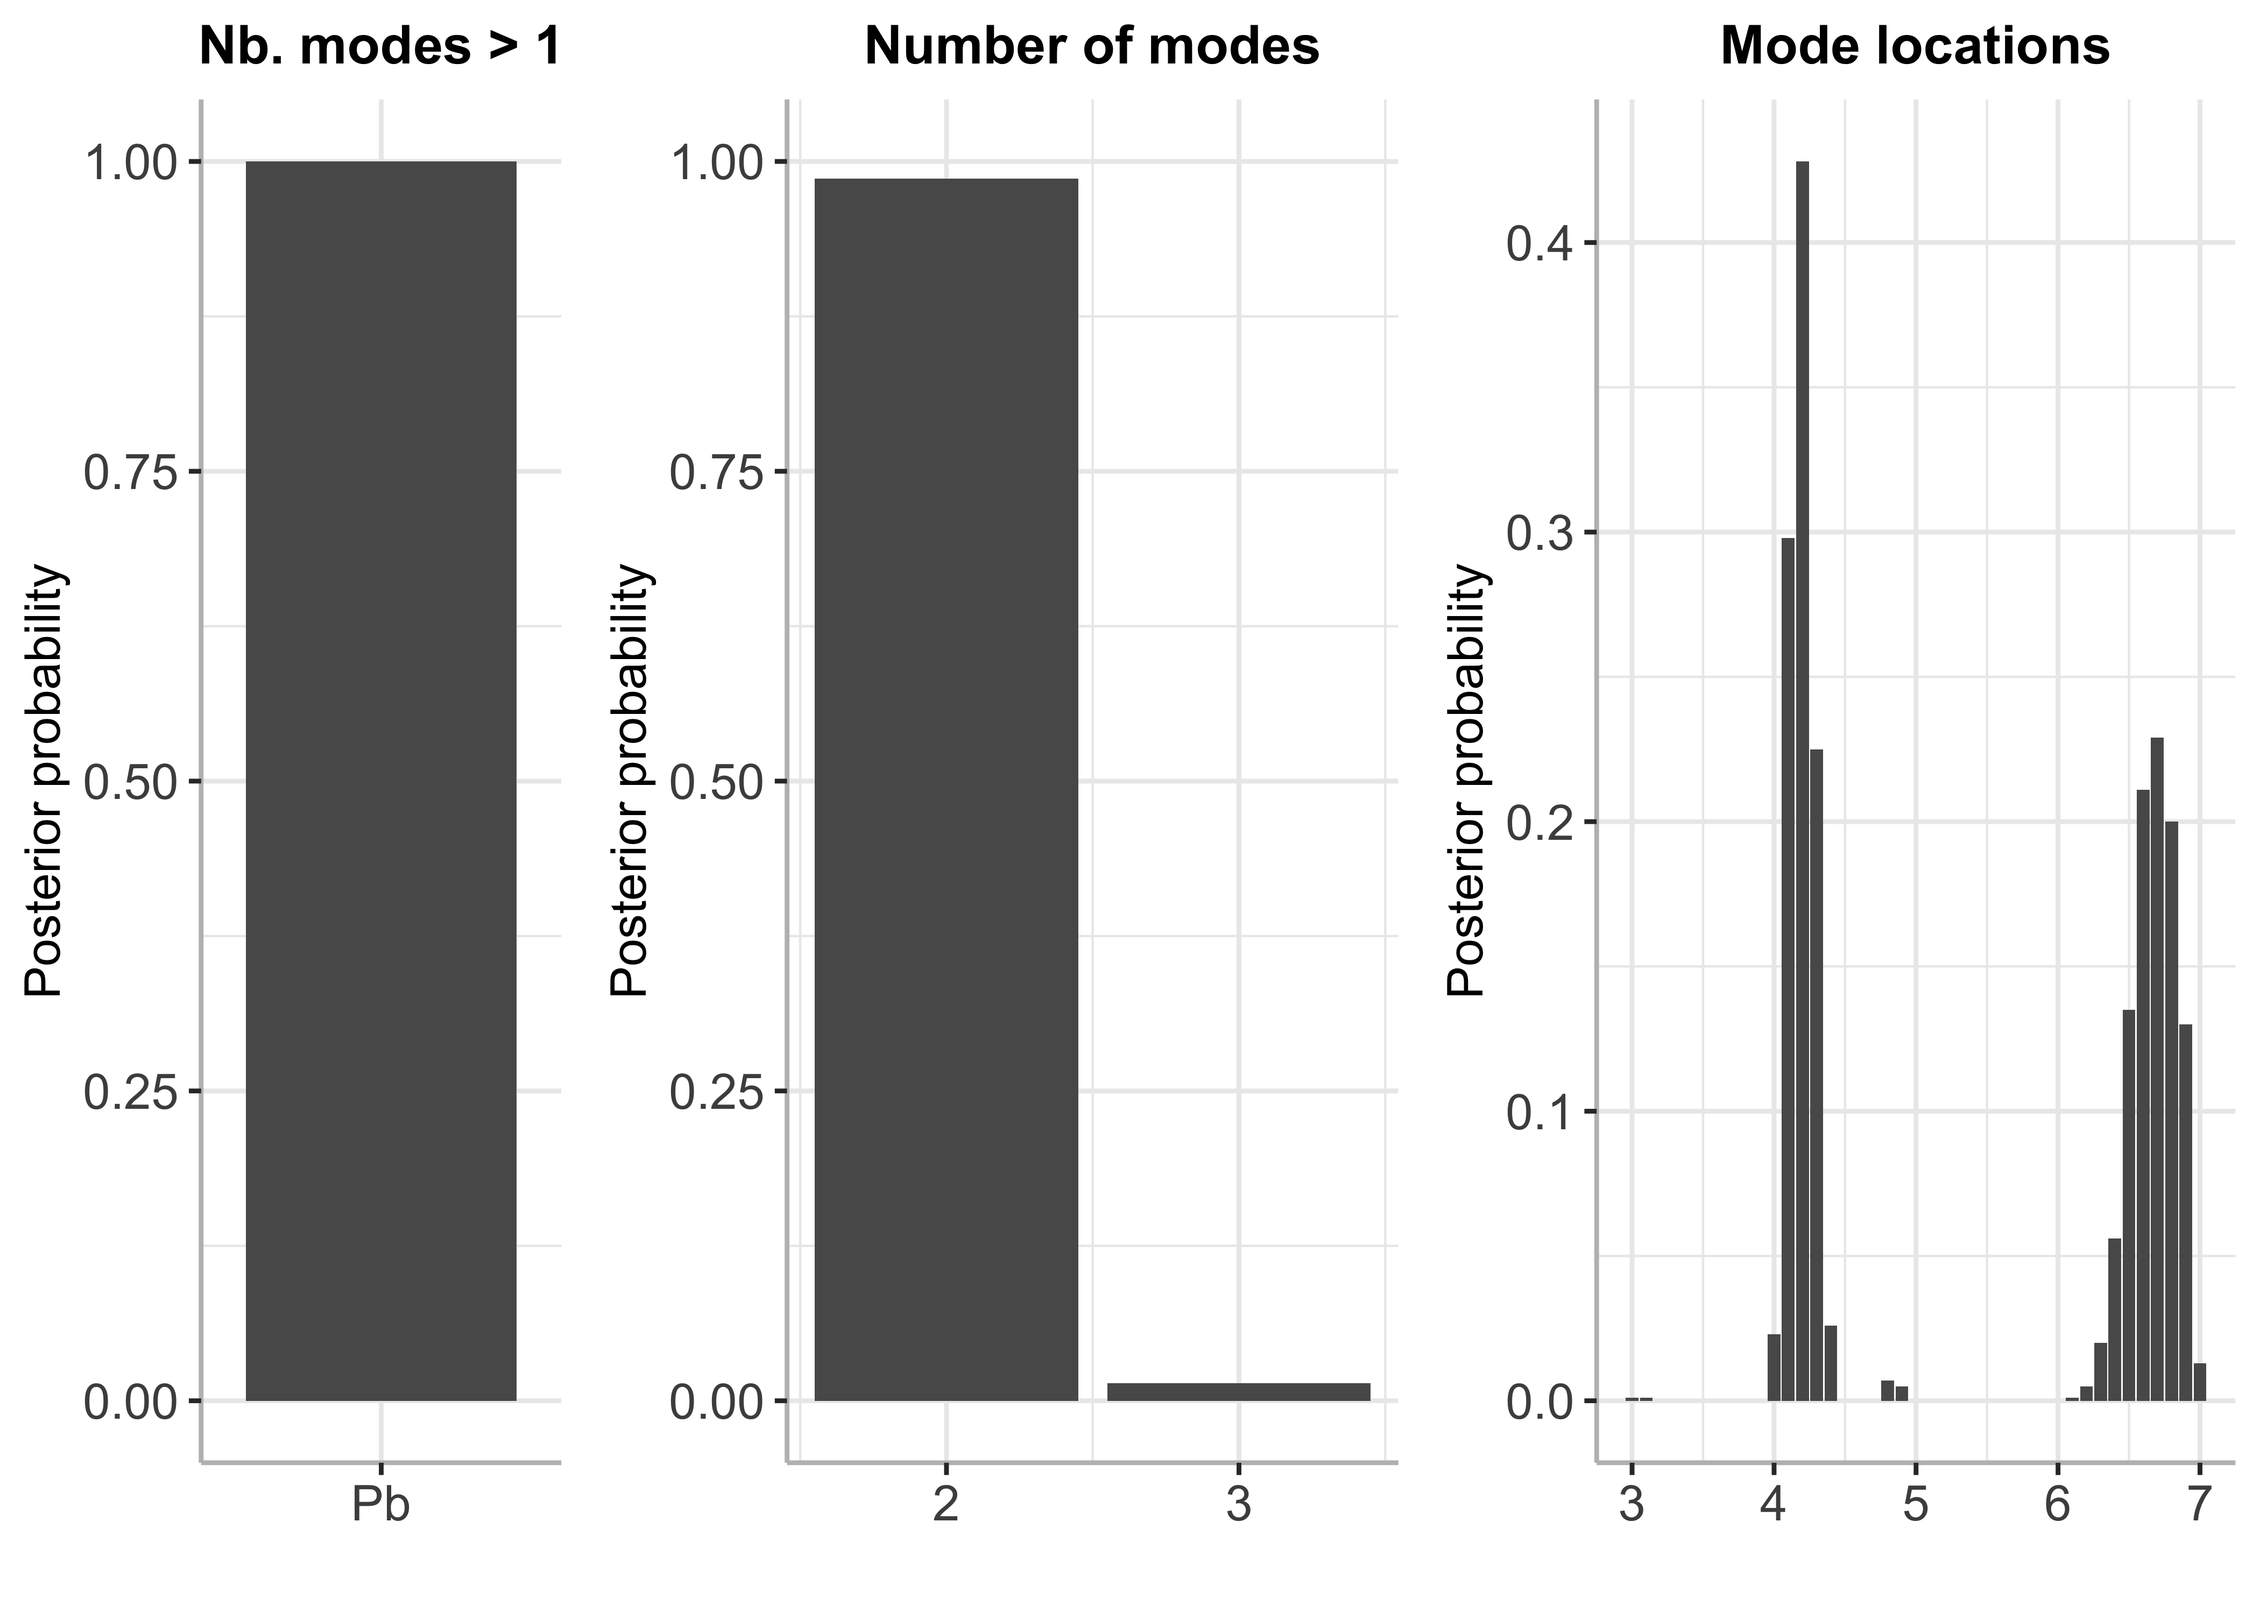
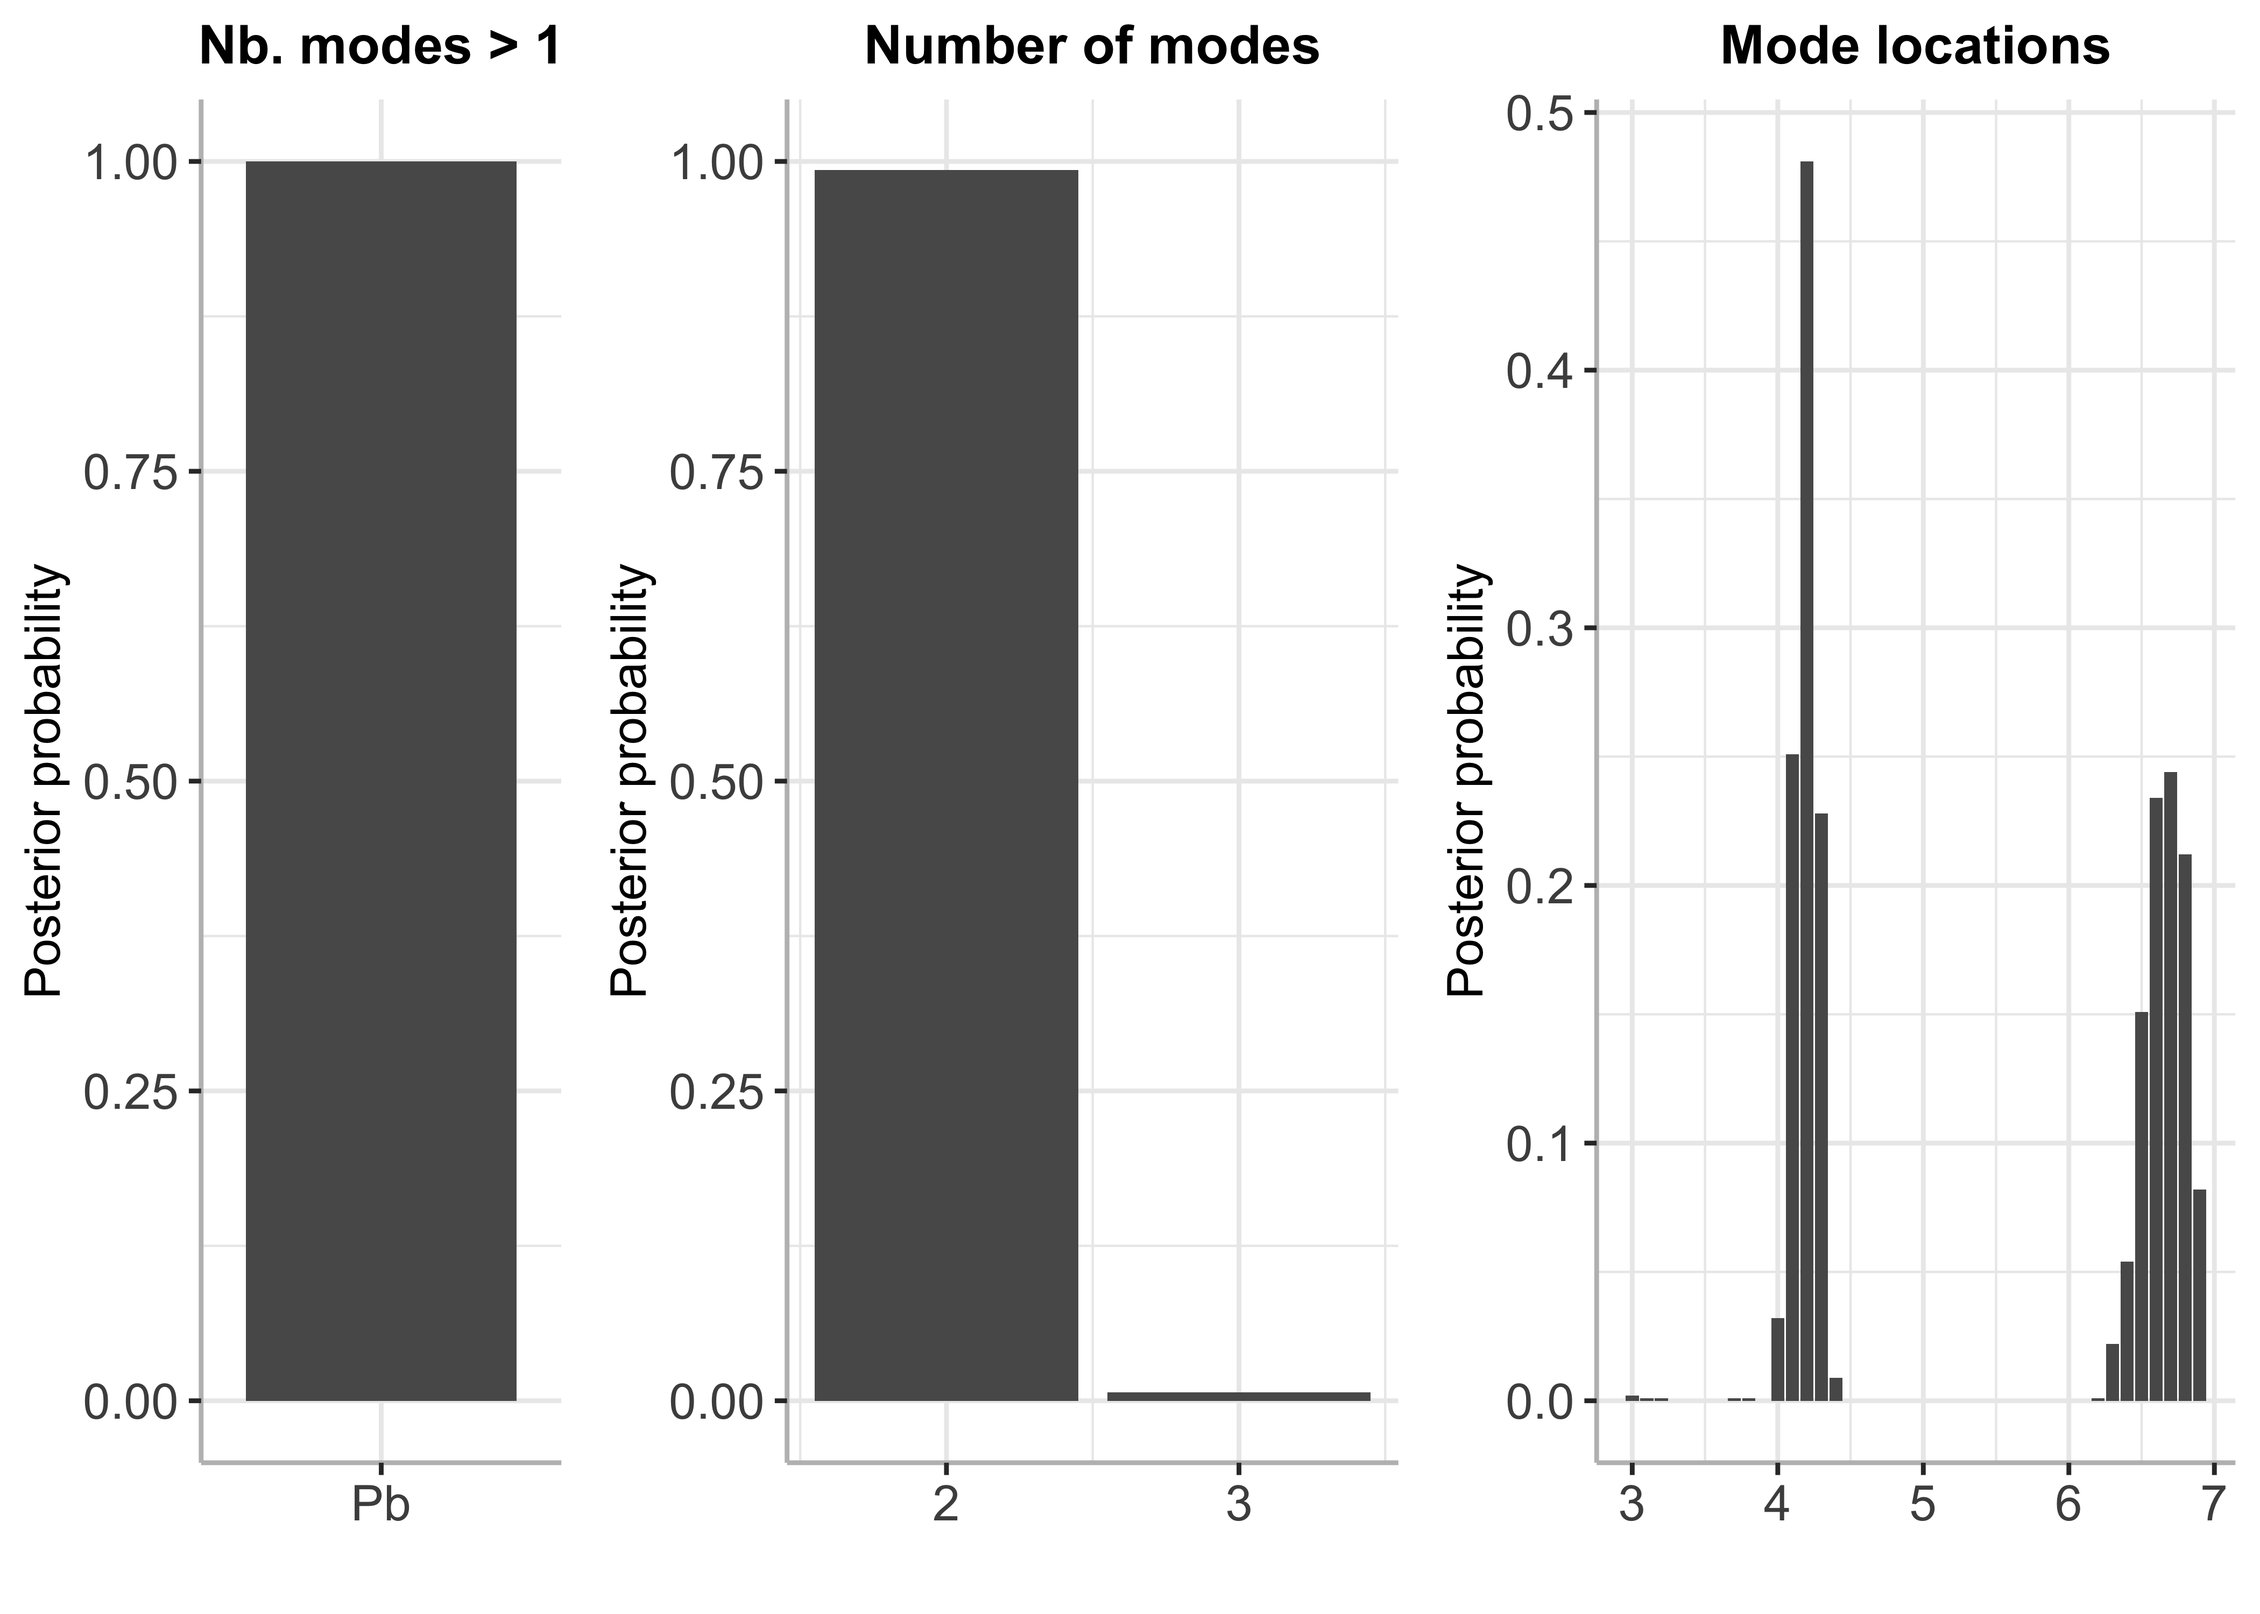
updated read-me

diff --git a/README.md b/README.md
@@ -96,8 +96,8 @@ summary(bayesmode)
     ## 
     ## The number of estimated modes and their posterior probabilities is:
     ##      Number of modes Posterior probabilty
-    ## [1,]               2                0.986
-    ## [2,]               3                0.014
+    ## [1,]               2                0.993
+    ## [2,]               3                0.007
 
 ### Using BayesMultiMode for mode inference with external MCMC output
 
@@ -118,18 +118,18 @@ PY_result = PYdensity(y,
                      output = list(out_param = TRUE))
 ```
 
-    ## Completed:   1000/10000 - in 0.109396 sec
-    ## Completed:   2000/10000 - in 0.224506 sec
-    ## Completed:   3000/10000 - in 0.330747 sec
-    ## Completed:   4000/10000 - in 0.441394 sec
-    ## Completed:   5000/10000 - in 0.552644 sec
-    ## Completed:   6000/10000 - in 0.67687 sec
-    ## Completed:   7000/10000 - in 0.790151 sec
-    ## Completed:   8000/10000 - in 0.904305 sec
-    ## Completed:   9000/10000 - in 1.01536 sec
-    ## Completed:   10000/10000 - in 1.12912 sec
+    ## Completed:   1000/10000 - in 0.107395 sec
+    ## Completed:   2000/10000 - in 0.217573 sec
+    ## Completed:   3000/10000 - in 0.336229 sec
+    ## Completed:   4000/10000 - in 0.439392 sec
+    ## Completed:   5000/10000 - in 0.557764 sec
+    ## Completed:   6000/10000 - in 0.670676 sec
+    ## Completed:   7000/10000 - in 0.787221 sec
+    ## Completed:   8000/10000 - in 0.90798 sec
+    ## Completed:   9000/10000 - in 1.02621 sec
+    ## Completed:   10000/10000 - in 1.13895 sec
     ## 
-    ## Estimation done in 1.12913 seconds
+    ## Estimation done in 1.13897 seconds
 
 ``` r
 plot(PY_result)
@@ -161,16 +161,15 @@ for (i in 1:length(PY_result$p)) {
 }
 
 mcmc_py = bind_rows(mcmc_py)
-
-##
-pars_names = c(theta = "theta",
-               mu = "mu",
-               sigma = "sigma")
 ```
 
 #### Creating an object of class `BayesMixture`
 
 ``` r
+pars_names = c(theta = "theta",
+               mu = "mu",
+               sigma = "sigma")
+
 py_BayesMix = new_BayesMixture(mcmc = mcmc_py,
                                data = y,
                                K = (ncol(mcmc_py)-1)/3,
@@ -201,11 +200,10 @@ summary(bayesmode)
     ## 
     ## The number of estimated modes and their posterior probabilities is:
     ##      Number of modes Posterior probabilty
-    ## [1,]               2               0.8104
-    ## [2,]               3               0.1608
-    ## [3,]               4               0.0264
-    ## [4,]               5               0.0022
-    ## [5,]               6               0.0002
+    ## [1,]               2               0.8162
+    ## [2,]               3               0.1612
+    ## [3,]               4               0.0214
+    ## [4,]               5               0.0012
 
 ### References
 
